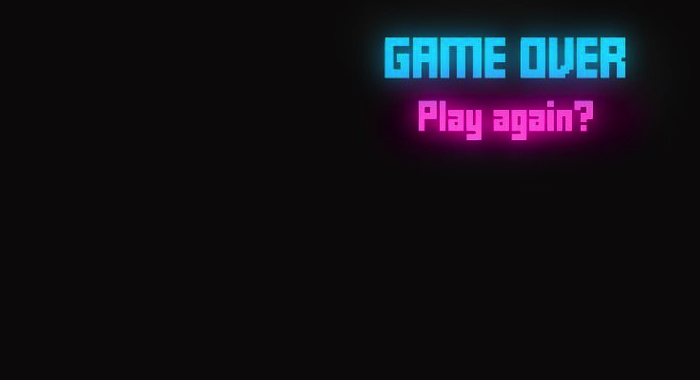
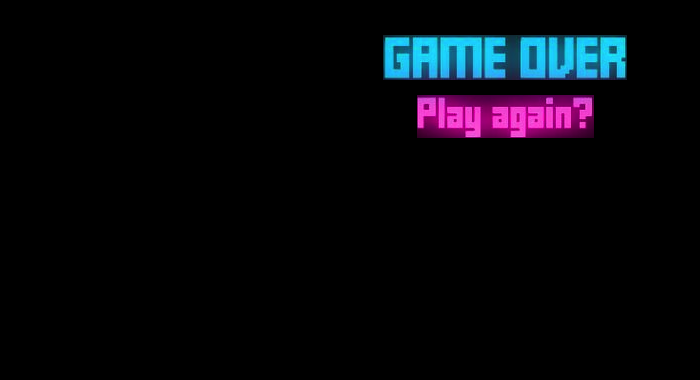
almost done

Changed region(s): [[0.51, 0.0289, 0.93, 0.4342]]

diff --git a/main.js b/main.js
@@ -54,6 +54,7 @@ let createRightBoxes = function () {
     }
 };
 createRightBoxes();
+//white
 
 
 //This is where we control the flow. When i get home create div elements in the dom
@@ -73,7 +74,7 @@ let addButtonFunction = function () {
         if (this.innerText == randomWordArray[i]) {
             this.innerText = '!';
             //this.style.textDecoration = 'line-through';
-            this.style.color = 'purple';            
+            this.style.color = 'black';            
             return console.log('Match!');
         };
     };                       
@@ -91,7 +92,7 @@ let addButtonFunction = function () {
     losingImage.src = ("images/image-" + wrongIdNumber + ".png");
     currentWrongDiv = document.getElementById('wrong-' + (wrongIdNumber));
     currentWrongDiv.innerText = this.innerText;       
-    this.style.color = 'purple';
+    this.style.color = 'black';
     console.log('wrong');
 
     return this.innerText = 'X';
@@ -127,6 +128,7 @@ let checkWin = function () {
     if (this.innerText == 'Z') {
         return console.log('stop messing with stuff and play a new game')
     }
+    //border
     //if (this.innerText !== 'Z') {
         let scoreboard = document.getElementById('scoreboardWin')
         let scoreboardText = scoreboard.innerText;
@@ -138,15 +140,15 @@ let checkWin = function () {
         winningImage.src = "images/winningImage.jpg"
         for (i = 0; i < alphabet.length; i++) {    
             let letters = document.getElementById('letter-' + i);
-            letters.style.color = 'white';
-            letters.style.background = 'white';
+            letters.style.color = 'black';
+            letters.style.background = 'black';
             letters.innerText = 'Z';
         };
         //////If you can reload css.... put it here
-        document.getElementById('letterBank').style.background = 'white';
+        document.getElementById('letterBank').style.background = 'black';
         //document.getElementById('opener').style.marginLeft = '120px';
         //document.getElementById('mainImage').style.marginRight = '195px';
-        alert('Good job! You Win!');
+
         console.log('good job');
         //console.log(this.innerText);
     };
@@ -154,7 +156,8 @@ let checkWin = function () {
     // console.log('stop messing with stuff and play a new game');
     // };
 //};
-
+//white
+//alert
 console.log(document.getElementById('letter-' + 1).innerText)
 let checkLose = function () {
     if (wrongLettersArray.length === 6) {
@@ -168,14 +171,13 @@ let checkLose = function () {
         scoreboard.innerHTML = scoreboardValue + 1;
         for (i = 0; i < alphabet.length; i++) {    
             let letters = document.getElementById('letter-' + i);
-            letters.style.color = 'white';
-            letters.style.background = 'white';
+            letters.style.color = 'black';
+            letters.style.background = 'black';
             letters.innerText = 'Z';
         };
-        alert('you lose!')
         document.getElementById('imgContainer').style.backgroundImage = "url('images/gameOver.png')";
         document.getElementById('imgContainer').addEventListener('click', resetGame);
-        document.getElementById('letterBank').style.background = 'white';
+        document.getElementById('letterBank').style.background = 'black';
                              
         // if (this.innerText == 'Z') {
         //     console.log('stop messing with stuff and play a new game');
@@ -192,7 +194,7 @@ let resetGame = function () {
         let letters = document.getElementById('letter-' + i);
         letters.innerText = alphabet[i];
         letters.style.color = 'white';
-        letters.style.background = 'purple';    
+        letters.style.background = 'black';    
     };
     for (i = 0; i < randomWordArray.length; i++) {
         let rightDiv = document.getElementById('right-' + i);
@@ -208,7 +210,7 @@ let resetGame = function () {
     rightLettersArray = []
     startingImage = document.getElementById('mainImage');
     startingImage.src = "images/startingImage.png";
-    document.getElementById('letterBank').style.background = 'purple';
+    document.getElementById('letterBank').style.background = 'black';
 };
 let getNewRandomWord = function () {
     //randomWordArray length is still the length of the current word until we change it on the next line
@@ -221,14 +223,14 @@ let getNewRandomWord = function () {
         let letters = document.getElementById('letter-' + i);
         letters.innerText = alphabet[i];
         letters.style.color = 'white';
-        letters.style.background = 'purple';        
+        letters.style.background = 'black';        
     };
     for (i = 0; i < 6; i++) {
         let wrongDiv = document.getElementById('wrong-' + i);
         wrongDiv.innerText = null;
     };
     document.getElementById('imgContainer').style.background = 'none';
-    document.getElementById('letterBank').style.background = 'purple';
+    document.getElementById('letterBank').style.background = 'black';
     randomWordArray = lettersArray[getRandomWordIndex()]
     createRightBoxes();
     wrongLettersArray = [];
@@ -263,22 +265,22 @@ let changeLetterBackground = function () {
     this.style.backgroundColor = 'red';
     //for (i = 0; i < randomWordArray.length; i++) {
         if (wrongLettersArray.length == 6) {
-        return this.style.background = 'white';
+        return this.style.background = 'black';
         };
         if (rightLettersArray.length == randomWordArray.length) {
-        return this.style.backgroundColor = 'white';       
+        return this.style.backgroundColor = 'black';       
         };
     };
 let revertLetterBackground = function () {
     for (i = 0; i < randomWordArray.length; i++) {
         if (wrongLettersArray.length == 6) {
-        return this.style.background = 'white';
+        return this.style.background = 'black';
         }
         let rightBoxes = document.getElementById('right-' + i);
         if (rightBoxes.innerText == false) {
-        this.style.backgroundColor = 'purple'
+        this.style.backgroundColor = 'black'
         };    
-    //this.style.backgroundColor = 'purple';
+    //this.style.backgroundColor = 'white';
     };
 };
 

diff --git a/style.css b/style.css
@@ -1,11 +1,17 @@
 body {
     text-align: center;
+    background: black;
+    color: white;
 }
 content {
     display:inline-block;
     align-items: center;
     width: 800px;
-    border: 2px solid black;
+    border: 4px white solid;
+    height: 820px;
+    padding: 0 20px 0 20px;
+    border-radius: 7px;
+    font-family: 'Staatliches', cursive;
 }
 header {
     display: flex;
@@ -16,8 +22,9 @@ h1 {
     padding: 15px 0 0 0;
     height: 75px;
     font-size: 5em;
-    margin-top: 0;
-    margin-bottom: 30px;
+    margin: 0 0 30px 30px;
+    font-family: 'Monoton', cursive; 
+    
 
 }
 .button:focus {
@@ -32,21 +39,23 @@ h1 {
     text-align: center;
     display: flex;
     flex-wrap: wrap;
-    background: purple;
+    background: black;
     justify-content: space-evenly;
     height: 470px;
     width: 80px;
     font-weight: bolder;
     font-size: large;
     color: white;
+    font-family: 'Staatliches', cursive;
 }
 .letters {
     height: 10px;
-    width: 17px;
-    border-bottom: 2px white solid;
+    width: 13px;
+    border: 2px white solid;
     margin: 0px 3px 3px 3px;
-    padding: 0px 3px 17px 3px;
-    font-size: 24px;
+    padding: 0px 5px 17px 2px;
+    font-size: 22px;
+    border-radius: 7px;
 }
 
 
@@ -71,13 +80,15 @@ img {
     
 }
 
-p {
+#explanation {
+    padding-bottom: 20px;
     width: 400px;
     text-align: center;
     margin: 15px 150px 0 150px;
-}
-#explanation {
-    margin-bottom: 50px;
+    font-size: 17px;
+    
+
+    
 }
 #scoreHeader {
     font-size: 2em;
@@ -104,8 +115,11 @@ p {
     height: 20px;
     margin-top: 50px;
     margin-bottom: 0;
+    padding-bottom: 17px;
     width: 40px;
-    border-bottom: 2px black solid;
+    border-bottom: 2px white solid;
+    font-size: 2em;
+    font-weight: 800;
 }
 ol {
     margin: 0 30px 0 0;
@@ -123,24 +137,43 @@ ol {
 .right{
     height: 20px;
     width: 50px;
-    border-bottom: 2px black solid;
+    border-bottom: 2px white solid;
     margin: 40px 25px 0 0px;
     padding-bottom: 17px;
     font-size: 2em;
+    font-weight: 800;
 
 }
 
 .button {
     width: 100px;
-    height: 20px;
-    background-color: blue;
+    height: 26px;
+    background-color: orangered;
     color: white;
-    margin-top: 60px;
+    margin-top: 40px;
+    margin-right: 14px;
+    font-size: 15px;
+    border-radius: 13px;
+    font-family: 'Staatliches', cursive;
+    padding-top: 4px;
 
 }
+.button:hover {
+    background: red;
+}
+
 footer {
-    margin: 60px 0 0 50px;
+    margin: 60px 0 0 0;
     color: red;
+    font-family: 'Times New Roman', Times, serif;
 
 
+}
+@media (max-width: 830px) {
+    header {
+        width: 830px;
+    }
+    h1 {
+        margin-right: 30px;
+    }
 } 

diff --git a/index.html b/index.html
@@ -5,17 +5,18 @@
     <meta charset="UTF-8">
     <meta name="viewport" content="width=device-width, initial-scale=1.0">
     <meta http-equiv="X-UA-Compatible" content="ie=edge">
-    <title>Document</title>
+    <link href="https://fonts.googleapis.com/css?family=Monoton|Staatliches&display=swap" rel="stylesheet">
     <link href="style.css" rel="stylesheet">
     <script defer src="main.js"></script>
 </head>
 <header>
-    <h1>Hangman Game</h1>
+    <h1>Black Box</h1>
 
 </header>
 <body>
     <content>
     <section id="wrapper">
+        
         <div id="letterBank" class="container">
             Letter Bank
 
@@ -24,7 +25,7 @@
             <p id="explanation">Lorem ipsum dolor sit amet consectetur adipisicing elit. Maiores non ea incidunt modi eaque delectus qui tenetur corporis veniam reprehenderit eos, minima iusto, totam, molestiae blanditiis. In asperiores soluta amet!
 
             </p>
-            <h2 id="scoreHeader">Win Count &nbsp; &nbsp; &nbsp; &nbsp; &nbsp; &nbsp; Loss Count</h2>
+            <h2 id="scoreHeader">Win Count &nbsp; &nbsp; &nbsp; &nbsp; &nbsp; &nbsp; &nbsp; &nbsp; &nbsp; &nbsp; &nbsp; &nbsp; Loss Count</h2>
 
             <div id="scoreboardContainer">
             <div id="scoreboardWin" class="scoreNumbers">
